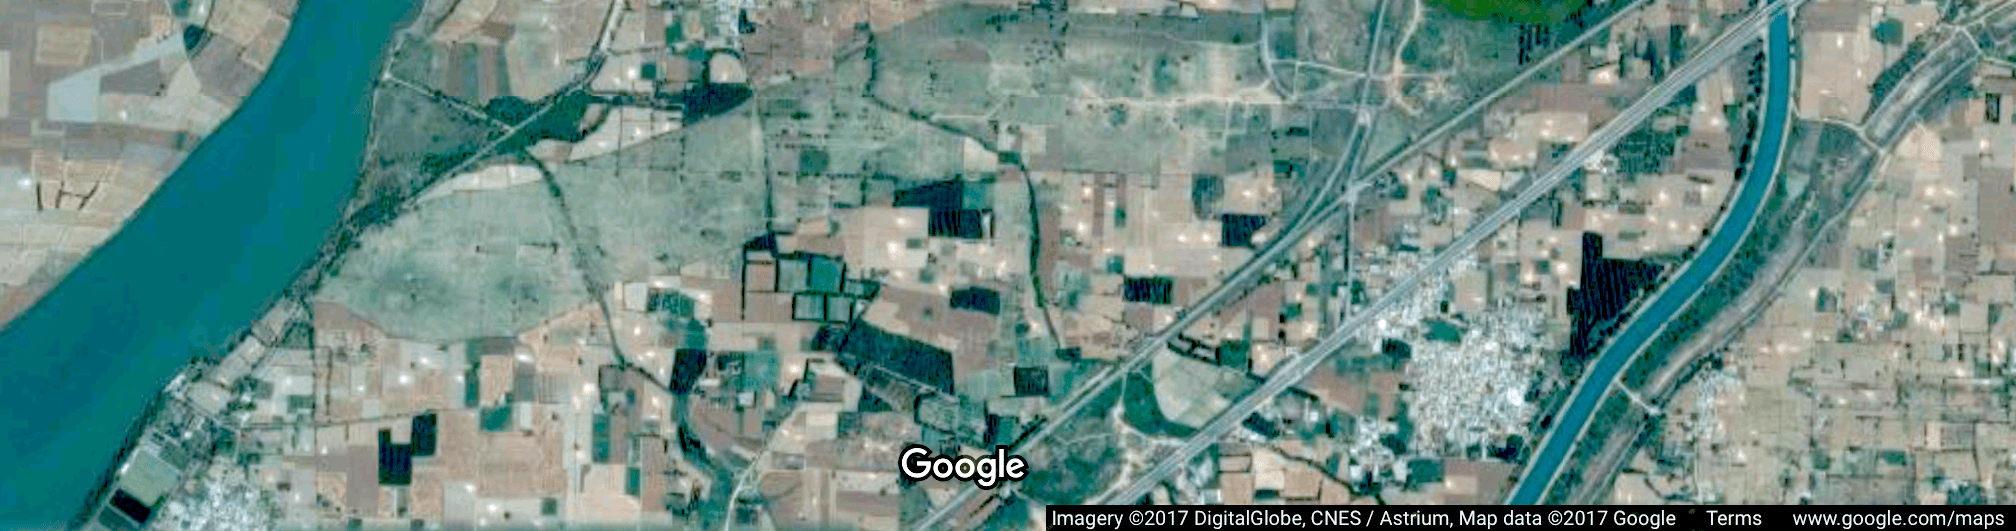
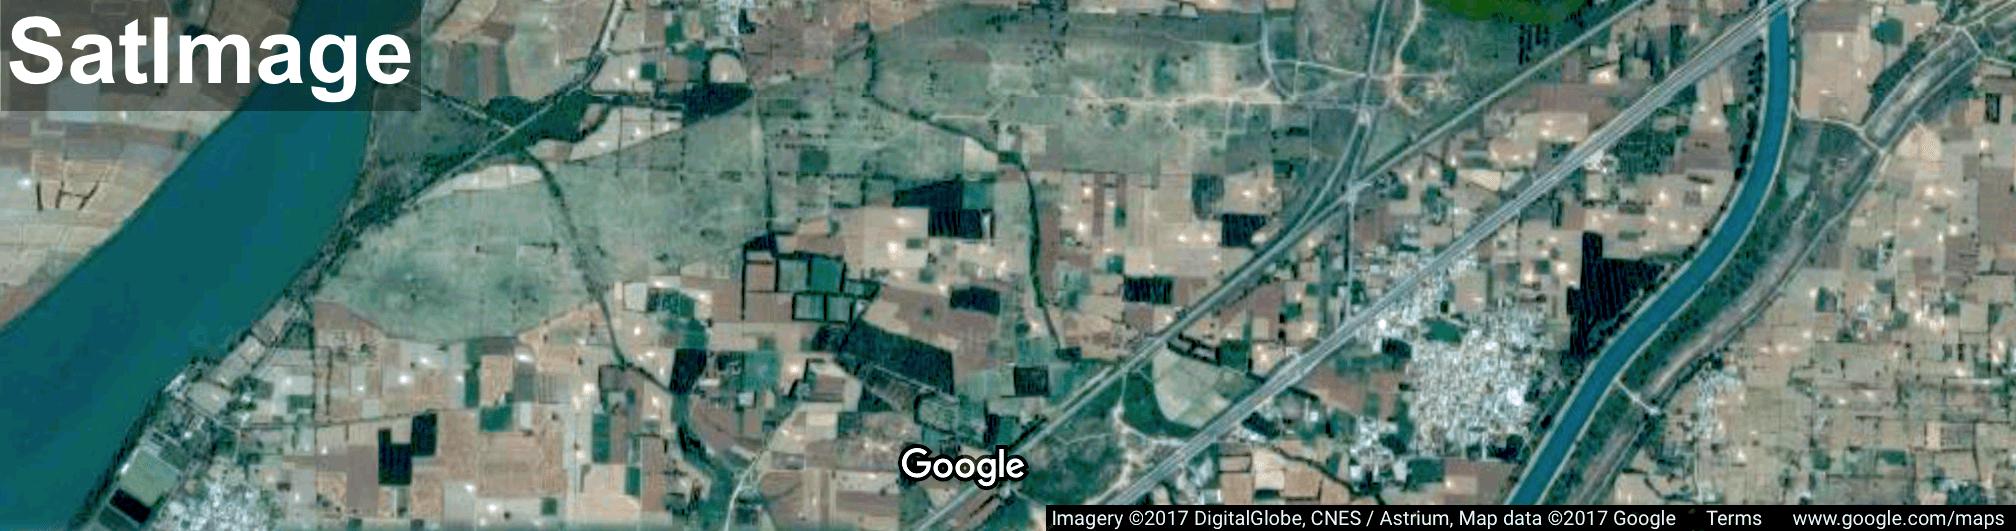
Update header image to include repository name

Changed region(s): [[0.0, 0.0, 0.2188, 0.2109]]

diff --git a/README.md b/README.md
@@ -4,8 +4,6 @@
 </div>
 </a><br>
 
-# SatImage
-
 This repository accompanies the manuscript "Predicting Poverty and Developmental Statistics from Satellite Images using Multi-task Deep Learning" and contains the code and model weights for two prediction tasks: 
 
 1. Predict, using a multi-task fully convolutional deep neural network, three developmental parameters - the main material of the roof, source of lighting and source of drinking water - from satellite imagery.
